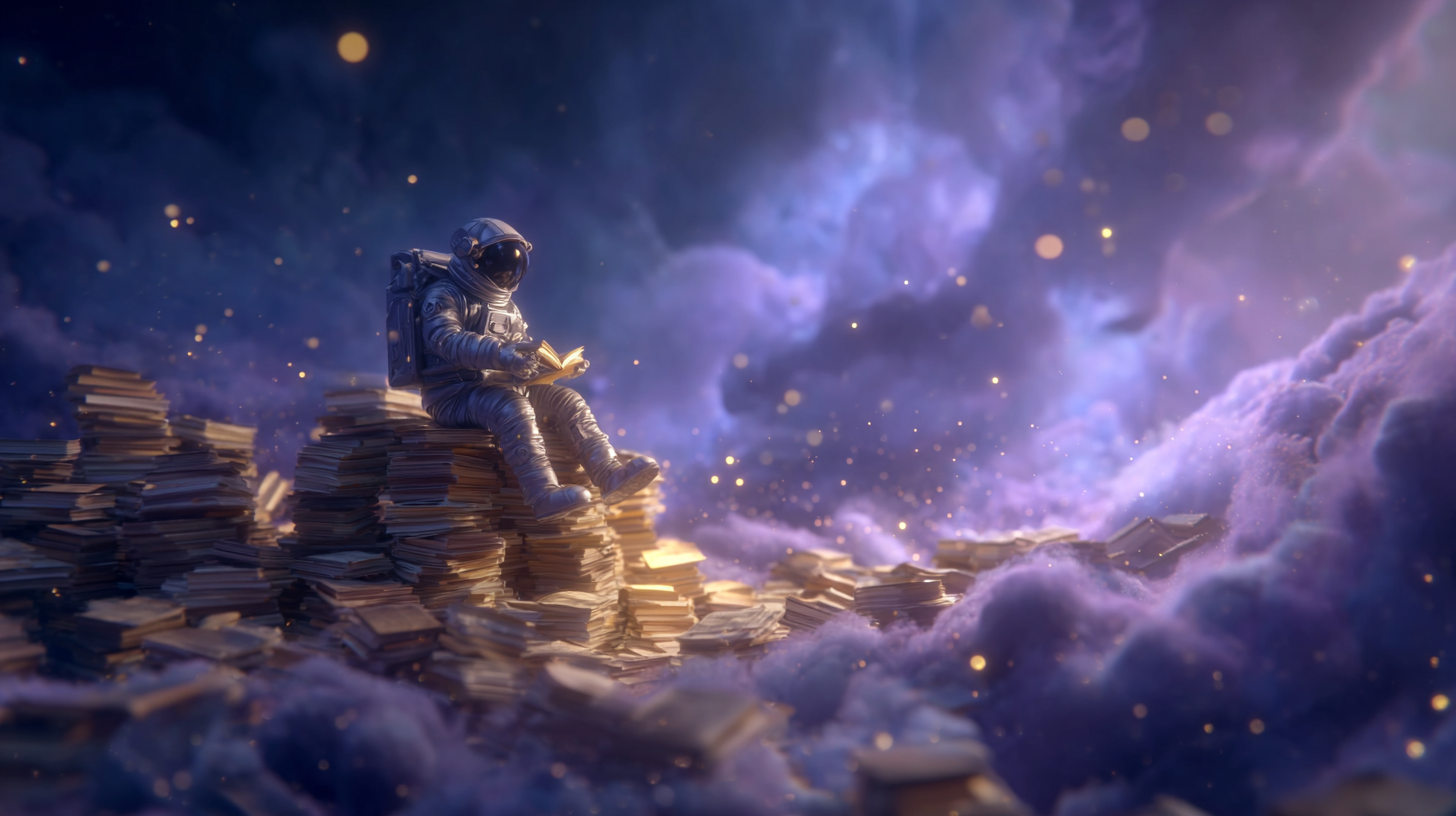
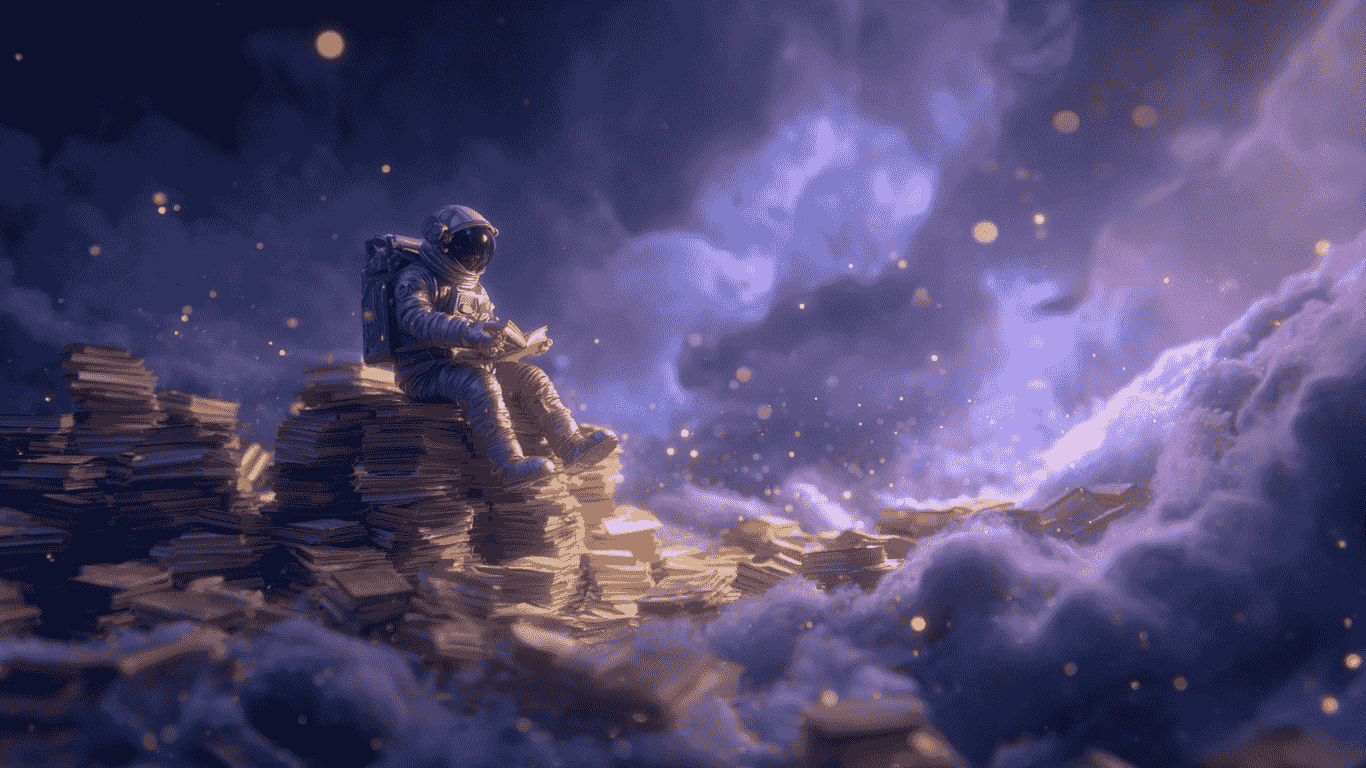
perf(story-viewer): lazy‑load heavy subcomponents + Suspense fallbacks; optimize LCP images (WebP ~70KB, PNG ~200KB)\n\n- React.lazy(): StorySegmentDisplay, StorySidebar, StoryNavigation, StoryMetadata, AudioControls (incl. Floating)\n- Add Suspense fallbacks for smooth UX\n- Optimize background ima

diff --git a/src/pages/StoryViewer.tsx b/src/pages/StoryViewer.tsx
@@ -1,4 +1,4 @@
-import { useState, useEffect, useRef } from 'react';
+import React, { useState, useEffect, useRef, lazy, Suspense } from 'react';
 import { useParams, useNavigate, useSearchParams } from 'react-router-dom';
 import { Button } from '@/components/ui/button';
 import { supabase } from '@/integrations/supabase/client';
@@ -10,13 +10,16 @@ import { VOICE_LANGUAGE_MAP } from '@/constants/translations';
 import { VoiceSelector } from '@/components/VoiceSelector';
 import { ReadingModeControls } from '@/components/ReadingModeControls';
 import { StoryModeToggle, StoryModeIndicator } from '@/components/story-viewer/StoryModeToggle';
-import { AudioControls, FloatingAudioControls } from '@/components/story-viewer/AudioControls';
-import { StorySegmentDisplay } from '@/components/story-viewer/StorySegmentDisplay';
-import { StoryNavigation } from '@/components/story-viewer/StoryNavigation';
-import { StoryMetadata } from '@/components/story-viewer/StoryMetadata';
+const AudioControls = lazy(() => import('@/components/story-viewer/AudioControls').then(m => ({ default: m.AudioControls })));
+const FloatingAudioControls = lazy(() => import('@/components/story-viewer/AudioControls').then(m => ({ default: m.FloatingAudioControls })));
+const StorySegmentDisplay = lazy(() => import('@/components/story-viewer/StorySegmentDisplay').then(m => ({ default: m.StorySegmentDisplay })));
+const StoryNavigation = lazy(() => import('@/components/story-viewer/StoryNavigation').then(m => ({ default: m.StoryNavigation })));
+const StoryMetadata = lazy(() => import('@/components/story-viewer/StoryMetadata').then(m => ({ default: m.StoryMetadata })));
+const StorySidebar = lazy(() => import('@/components/story-viewer/StorySidebar').then(m => ({ default: m.StorySidebar })));
+
 import { StoryControls } from '@/components/story-viewer/StoryControls';
 import { StoryProgressTracker } from '@/components/story-viewer/StoryProgressTracker';
-import { StorySidebar } from '@/components/story-viewer/StorySidebar';
+
 import { logger as debugLogger, generateRequestId } from '@/lib/utils/debug';
 import { logger } from '@/lib/logger';
 import { AIClient, InsufficientCreditsError, AIClientError } from '@/lib/api/ai-client';
@@ -1223,38 +1226,42 @@ const StoryViewer = () => {
             <div className="space-y-6 min-w-0">
               {/* Story Metadata */}
               {viewMode === 'experience' && (
-                <StoryMetadata story={story} viewMode={viewMode} />
+                <Suspense fallback={<div className="h-6 w-32 animate-pulse rounded bg-muted/30" /> }>
+                  <StoryMetadata story={story} viewMode={viewMode} />
+                </Suspense>
               )}
 
               {/* Current Segment Display */}
               {currentSegment && (
-                <StorySegmentDisplay
-                  segment={currentSegment}
-                  story={story}
-                  viewMode={viewMode}
-                  isOwner={isOwner}
-                  generatingSegment={generatingSegment}
-                  generatingImage={generatingImage}
-                  onChoice={handleChoice}
-                  onGenerateImage={generateSegmentImage}
-                  fontSize={fontSize}
-                  isPlaying={isPlaying}
-                  generatingAudio={generatingAudio}
-                  onToggleAudio={toggleAudio}
-                  onGenerateAudio={() => {
-                    if (!currentSegment.content) {
-                      toast({
-                        title: "Cannot generate audio",
-                        description: "This segment has no content to convert to audio.",
-                        variant: "destructive",
-                      });
-                      return;
-                    }
-                    generateAudio(currentSegment.id, currentSegment.content);
-                  }}
-                  selectedVoice={selectedVoice}
-                  onVoiceChange={setSelectedVoice}
-                />
+                <Suspense fallback={<div className="aspect-video w-full rounded-lg bg-muted/30 animate-pulse" /> }>
+                  <StorySegmentDisplay
+                    segment={currentSegment}
+                    story={story}
+                    viewMode={viewMode}
+                    isOwner={isOwner}
+                    generatingSegment={generatingSegment}
+                    generatingImage={generatingImage}
+                    onChoice={handleChoice}
+                    onGenerateImage={generateSegmentImage}
+                    fontSize={fontSize}
+                    isPlaying={isPlaying}
+                    generatingAudio={generatingAudio}
+                    onToggleAudio={toggleAudio}
+                    onGenerateAudio={() => {
+                      if (!currentSegment.content) {
+                        toast({
+                          title: "Cannot generate audio",
+                          description: "This segment has no content to convert to audio.",
+                          variant: "destructive",
+                        });
+                        return;
+                      }
+                      generateAudio(currentSegment.id, currentSegment.content);
+                    }}
+                    selectedVoice={selectedVoice}
+                    onVoiceChange={setSelectedVoice}
+                  />
+                </Suspense>
               )}
 
               {/* Ending helper hint: guide user to generate missing content */}
@@ -1297,61 +1304,63 @@ const StoryViewer = () => {
 
               {/* Story Navigation for Experience Mode */}
               {viewMode === 'experience' && (
-                <StoryNavigation
-                  currentSegmentIndex={currentSegmentIndex}
-                  totalSegments={segments.length}
-                  onNavigate={navigateSegment}
-                  onJumpToSegment={jumpToSegment}
-                  onEndStory={handleEndStory}
-                  showEndStory={isOwner && !isCompletedStory}
-                  viewMode={viewMode}
-                  hasEnding={hasEnding}
-                  endActionLabel={endActionLabel}
-                />
+                <Suspense fallback={<div className="h-10 w-full rounded bg-muted/30 animate-pulse" /> }>
+                  <StoryNavigation
+                    currentSegmentIndex={currentSegmentIndex}
+                    totalSegments={segments.length}
+                    onNavigate={navigateSegment}
+                    onJumpToSegment={jumpToSegment}
+                    onEndStory={handleEndStory}
+                    showEndStory={isOwner && !isCompletedStory}
+                    viewMode={viewMode}
+                    hasEnding={hasEnding}
+                    endActionLabel={endActionLabel}
+                  />
+                </Suspense>
               )}
             </div>
 
             {/* Sidebar for Creation Mode */}
             {viewMode === 'creation' && currentSegment && (
-              <div className="lg:sticky lg:top-6 min-w-0">
-                <StorySidebar
-                story={story}
-                currentSegment={currentSegment}
-                segmentNumber={currentSegmentIndex + 1}
-                totalSegments={segments.length}
-                creditsUsed={creditsUsed}
-                totalCredits={totalCredits}
-                isPlaying={isPlaying}
-                generatingAudio={generatingAudio}
-                generatingImage={generatingImage === currentSegment.id}
-                generatingEnding={generatingEnding}
-                generatingSegment={generatingSegment}
-                selectedVoice={selectedVoice}
-                onVoiceChange={setSelectedVoice}
-                onGenerateAudio={() => {
-                  if (!currentSegment.content) {
-                    toast({
-                      title: "Cannot generate audio",
-                      description: "This segment has no content to convert to audio.",
-                      variant: "destructive",
-
-
-                    });
-                    return;
-                  }
-                  generateAudio(currentSegment.id, currentSegment.content);
-                }}
-                onToggleAudio={toggleAudio}
-                onGenerateImage={() => generateSegmentImage(currentSegment)}
-                onEndStory={handleEndStory}
-                isOwner={isOwner}
-                isCompleted={isCompletedStory}
-                creditLocked={creditLock.current}
-                hasEnding={hasEnding}
-                onMakePictureAndVoice={() => makePictureAndVoice(currentSegment)}
-                endActionLabel={endActionLabel}
-              />
-              </div>
+              <Suspense fallback={<div className="h-[420px] rounded-lg bg-muted/30 animate-pulse" /> }>
+                <div className="lg:sticky lg:top-6 min-w-0">
+                  <StorySidebar
+                    story={story}
+                    currentSegment={currentSegment}
+                    segmentNumber={currentSegmentIndex + 1}
+                    totalSegments={segments.length}
+                    creditsUsed={creditsUsed}
+                    totalCredits={totalCredits}
+                    isPlaying={isPlaying}
+                    generatingAudio={generatingAudio}
+                    generatingImage={generatingImage === currentSegment.id}
+                    generatingEnding={generatingEnding}
+                    generatingSegment={generatingSegment}
+                    selectedVoice={selectedVoice}
+                    onVoiceChange={setSelectedVoice}
+                    onGenerateAudio={() => {
+                      if (!currentSegment.content) {
+                        toast({
+                          title: "Cannot generate audio",
+                          description: "This segment has no content to convert to audio.",
+                          variant: "destructive",
+                        });
+                        return;
+                      }
+                      generateAudio(currentSegment.id, currentSegment.content);
+                    }}
+                    onToggleAudio={toggleAudio}
+                    onGenerateImage={() => generateSegmentImage(currentSegment)}
+                    onEndStory={handleEndStory}
+                    isOwner={isOwner}
+                    isCompleted={isCompletedStory}
+                    creditLocked={creditLock.current}
+                    hasEnding={hasEnding}
+                    onMakePictureAndVoice={() => makePictureAndVoice(currentSegment)}
+                    endActionLabel={endActionLabel}
+                  />
+                </div>
+              </Suspense>
             )}
           </div>
         </div>
@@ -1386,31 +1395,33 @@ const StoryViewer = () => {
 
       {/* Floating Audio Controls for Experience Mode */}
       {viewMode === 'experience' && !isReadingMode && (
-        <FloatingAudioControls
-          audioUrl={currentSegment?.audio_url}
-          isPlaying={isPlaying}
-          isGenerating={generatingAudio}
-          onToggleAudio={toggleAudio}
-          onGenerateAudio={() => {
-            if (!currentSegment || !currentSegment.content) {
-              toast({
-                title: "Cannot generate audio",
-                description: "This segment has no content to convert to audio.",
-                variant: "destructive",
-              });
-              return;
-            }
-            generateAudio(currentSegment.id, currentSegment.content);
-          }}
-          onSkipForward={() => navigateSegment('next')}
-          onSkipBack={() => navigateSegment('prev')}
-          canSkipForward={currentSegmentIndex < segments.length - 1}
-          canSkipBack={currentSegmentIndex > 0}
-          disabled={creditLock.current}
-          selectedVoice={selectedVoice}
-          onVoiceChange={setSelectedVoice}
-          showVoiceSelector={true}
-        />
+        <Suspense fallback={<div className="fixed bottom-4 left-1/2 -translate-x-1/2 h-12 w-[90%] max-w-xl rounded-full bg-muted/30 animate-pulse" /> }>
+          <FloatingAudioControls
+            audioUrl={currentSegment?.audio_url}
+            isPlaying={isPlaying}
+            isGenerating={generatingAudio}
+            onToggleAudio={toggleAudio}
+            onGenerateAudio={() => {
+              if (!currentSegment || !currentSegment.content) {
+                toast({
+                  title: "Cannot generate audio",
+                  description: "This segment has no content to convert to audio.",
+                  variant: "destructive",
+                });
+                return;
+              }
+              generateAudio(currentSegment.id, currentSegment.content);
+            }}
+            onSkipForward={() => navigateSegment('next')}
+            onSkipBack={() => navigateSegment('prev')}
+            canSkipForward={currentSegmentIndex < segments.length - 1}
+            canSkipBack={currentSegmentIndex > 0}
+            disabled={creditLock.current}
+            selectedVoice={selectedVoice}
+            onVoiceChange={setSelectedVoice}
+            showVoiceSelector={true}
+          />
+        </Suspense>
       )}
     </div>
   );

diff --git a/scripts/optimize-images.js b/scripts/optimize-images.js
@@ -97,9 +97,19 @@ async function optimizeImages() {
       })
       .webp({ quality: 80 })
       .toFile(path.join(assetsDir, 'main-astronaut-optimized.webp'));
-    
+
+    // Create optimized PNG fallback (1920x1080, quality ~90)
+    await sharp(bgPath)
+      .resize(1366, 768, {
+        fit: 'cover',
+        position: 'center'
+      })
+      .png({ compressionLevel: 9, adaptiveFiltering: true, palette: true, colors: 128 })
+      .toFile(path.join(assetsDir, 'main-astronaut-optimized.png'));
+
     console.log('✅ Background image optimized successfully');
     console.log('   - Created: main-astronaut-optimized.webp');
+    console.log('   - Created: main-astronaut-optimized.png');
   } catch (error) {
     console.error('❌ Error optimizing background:', error.message);
   }
